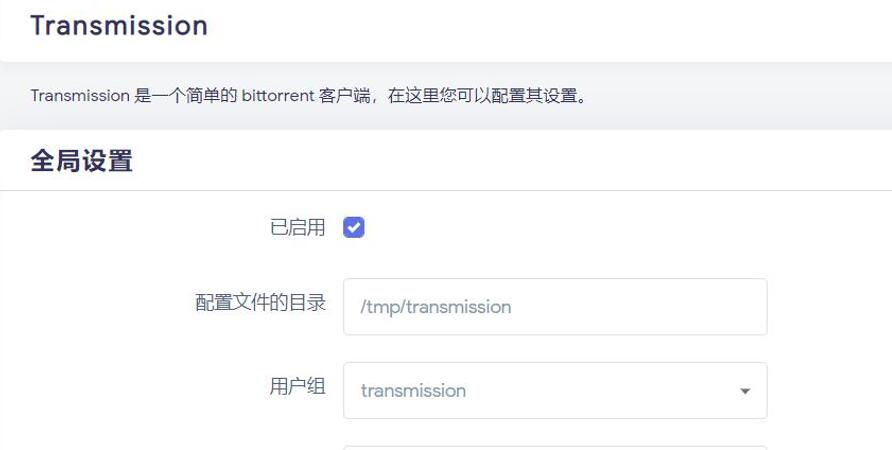
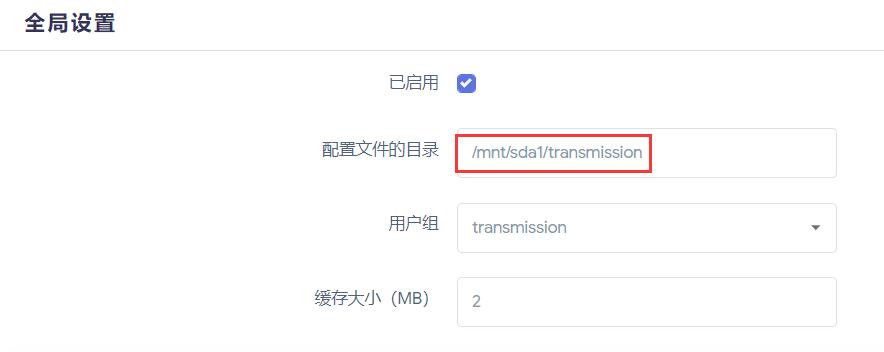
update

diff --git a/docs/zh/guide/easepi/common.md b/docs/zh/guide/easepi/common.md
@@ -104,9 +104,8 @@ RPC认证方式：切换成令牌
 
 RPC令牌：可自定义，随意的英文数字组合就成，例如：aa1111bb2222
 
-其他设置不管
-
-```	
+其他设置按需修改
+```
 ![common](./common/aria2.jpg)
 
 3.设置Aria2下载目录，文件和位置：
@@ -147,13 +146,17 @@ ps：下载目录指定到哪个文件夹，必须这个路径存在这个文件
 
 * 勾选“已启用”
 
-* 设置qBittorrent下载文件存放目录
+* 配置文件存放路径/下载文件存放目录：建议改到硬盘路径
+```
+例如：
 
+配置路径：/mnt/sda1/qb 具体路径按需修改
+
+下载目录：/mnt/sda1/downloads 具体路径按需修改
+```
 * 取消“启用临时目录”，不然产生大量临时文件
 
-* 其它不用设置，右下角保存应用。
-
-ps：下载目录指定到哪个文件夹，必须这个路径存在这个文件夹，不然不会运行。
+* 其他设置按需修改
 
 ![common](./common/qBittorrent2.jpg)
 
@@ -184,9 +187,15 @@ ps：下载目录指定到哪个文件夹，必须这个路径存在这个文件
 
 * 勾选“已启用”
 
-* 设置Transmission下载目录，其它不用设置，右下角保存应用。
+* 配置文件的目录/下载目录：建议改到硬盘路径
+```
+例如：
 
-ps：下载目录指定到哪个文件夹，必须这个路径存在这个文件夹，不然不会运行。
+配置目录：/mnt/sda1/transmission 具体路径按需修改
+
+下载目录：/mnt/sda1/downloads 具体路径按需修改
+```
+* 其他设置按需修改
 
 ![common](./common/Transmission2.jpg)
 
